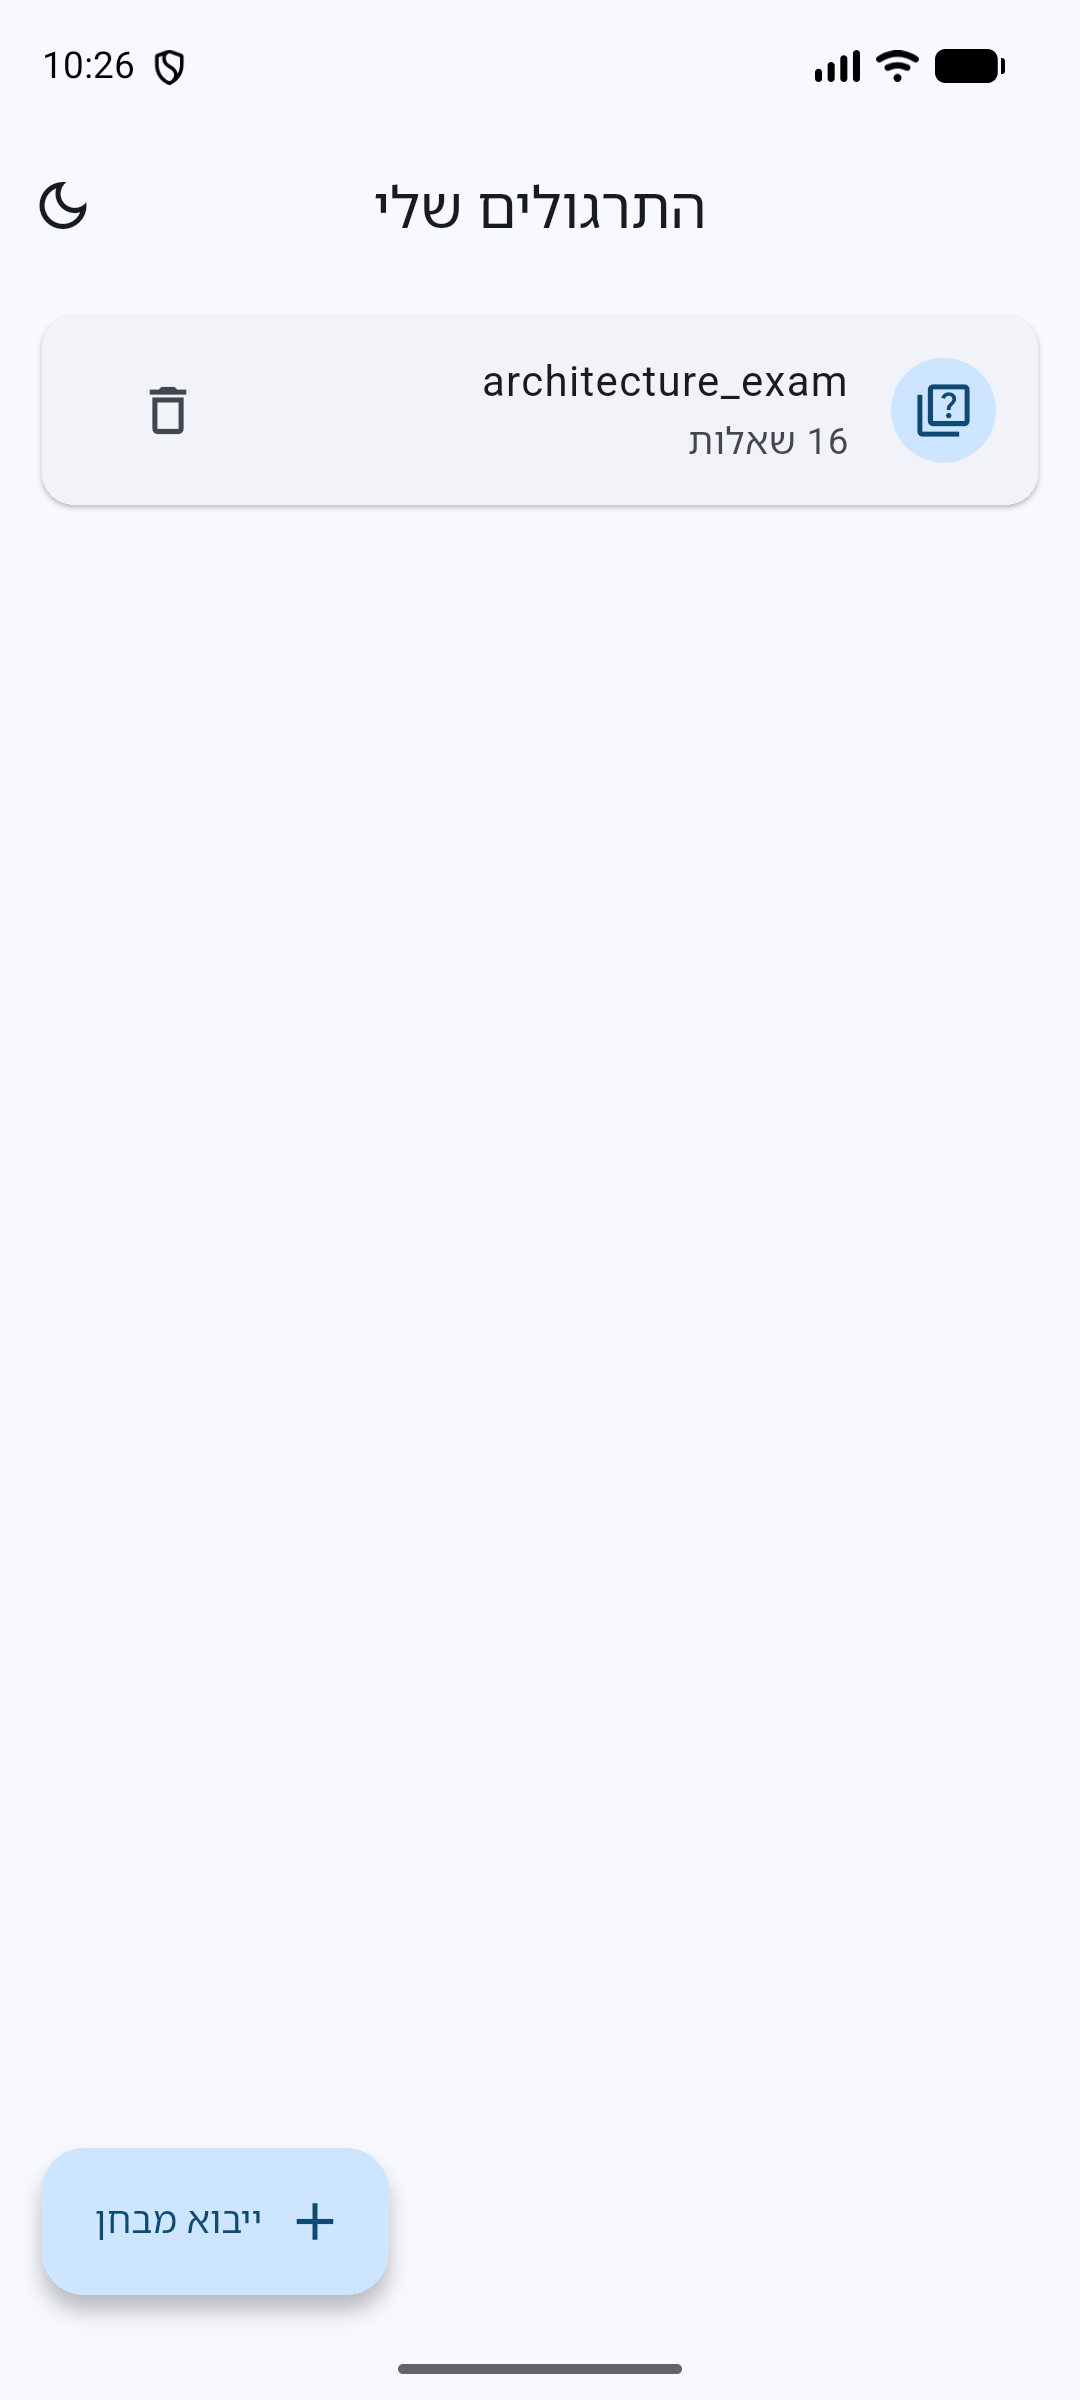
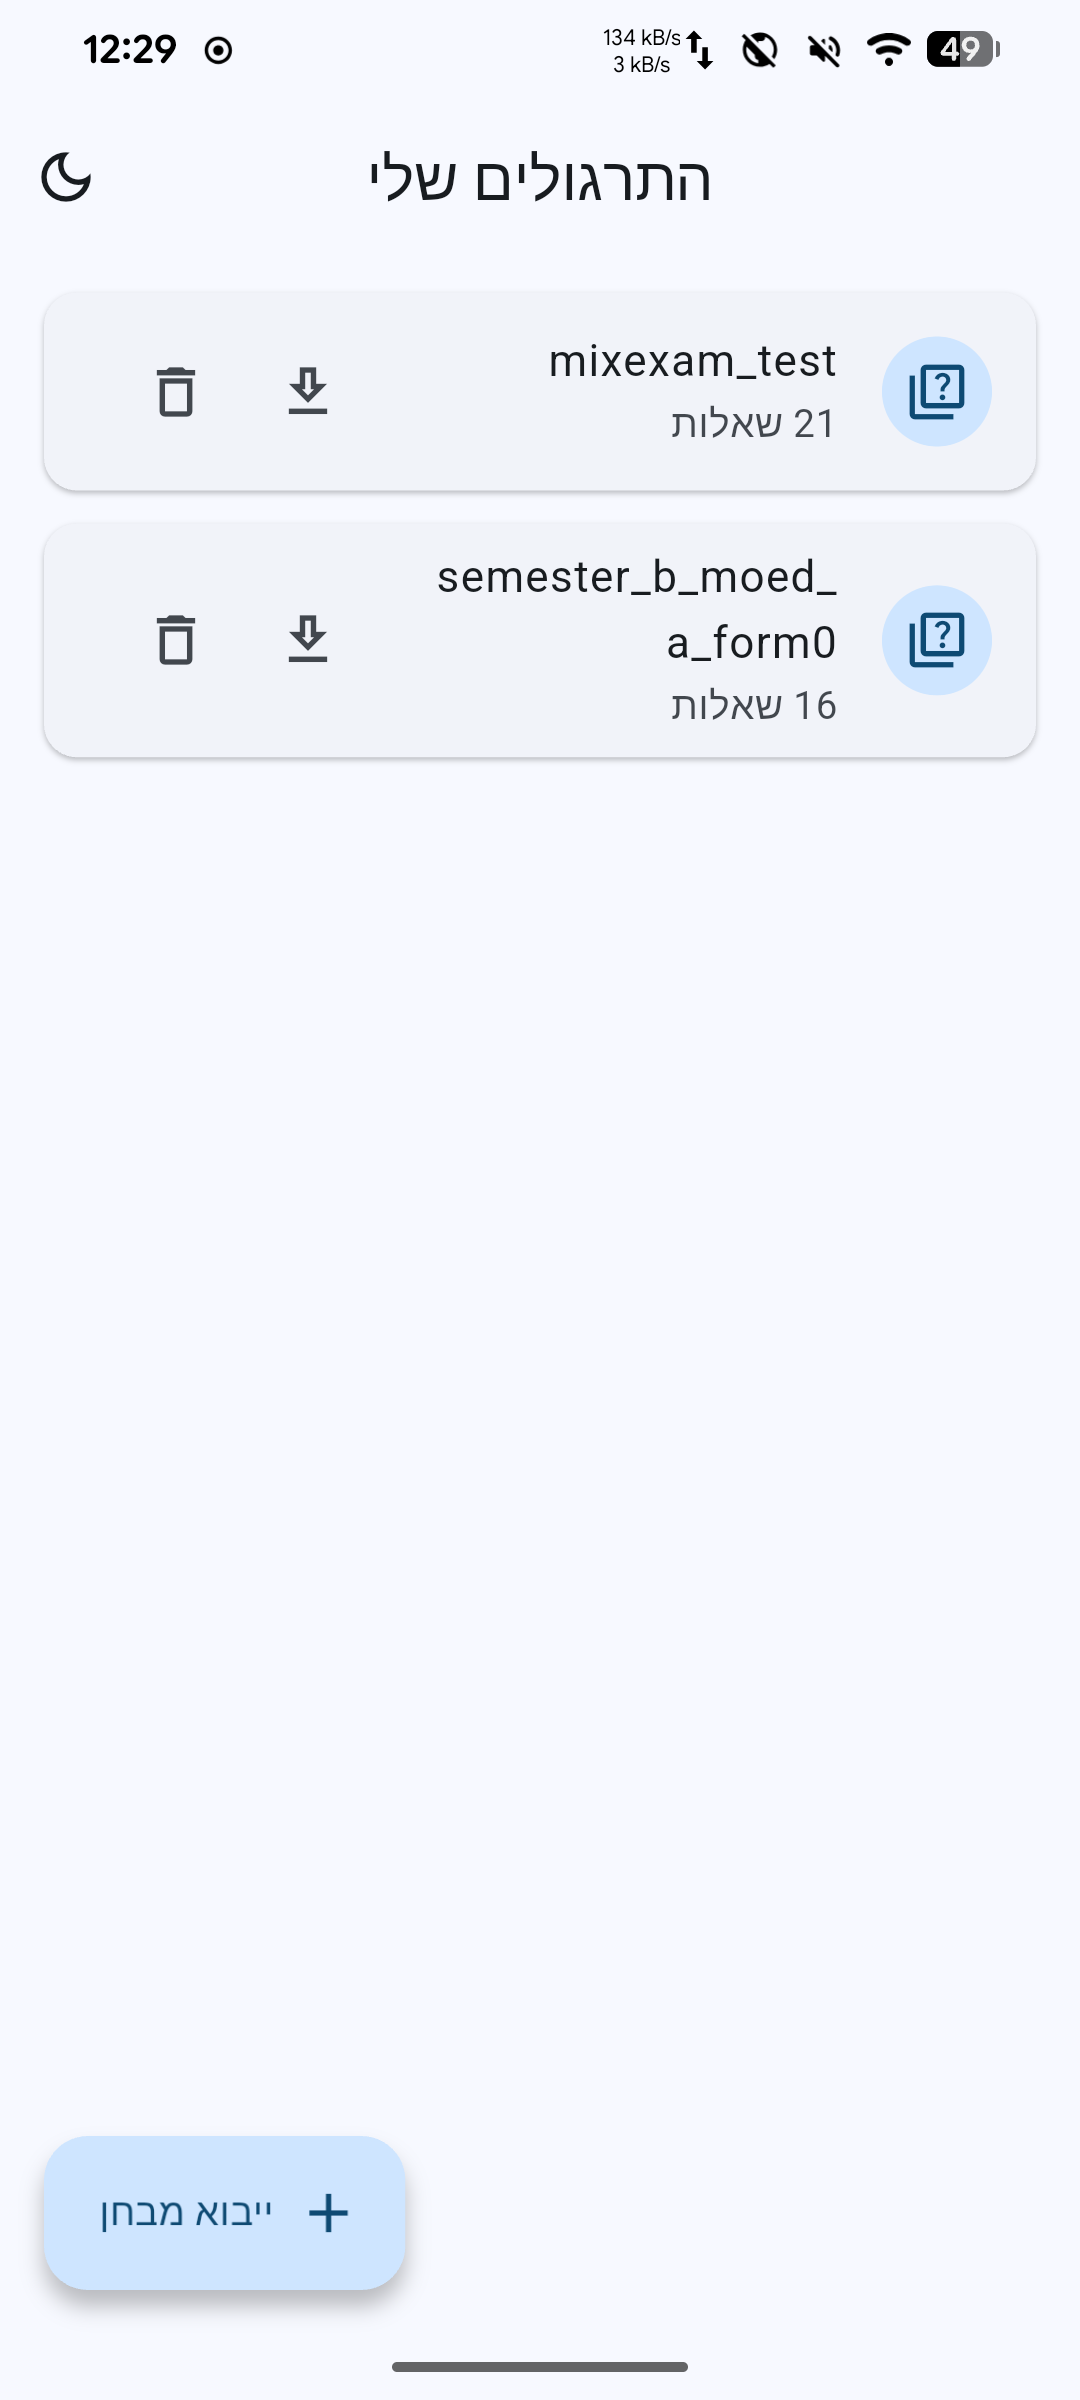
docs: refresh README screenshots for the current app
Recaptured all six shots on-device. The eye-reveal helper is gone, so
reveal.png is replaced by feedback.png (immediate right/wrong marking),
and the dark-mode shot now shows the fingertip bird trail. Prose updated
to match: immediate feedback, auto-advance, and the shuffled-PDF export.

diff --git a/README.md b/README.md
@@ -17,8 +17,11 @@ network calls, no PDFs leave your device.
   isolate via `compute()`, so the UI never freezes.
 - **Answer shuffling.** Extracted text answers are shuffled each session,
   and the originally-correct answer is never left in the first position.
-- **Reveal helper.** An "eye" button highlights the correct answer in green
-  for self-checking without failing you.
+- **Immediate feedback.** Picking an answer locks the question and marks it
+  at once — your pick in red if wrong, the correct one in green. A correct
+  answer auto-advances to the next question.
+- **Download the shuffled exam as a PDF.** The reordered exam is re-stamped
+  in the original layout, so you can print or practice on paper.
 - **Visual questions (diagrams / Karnaugh maps / circuits).** Questions the
   parser can't safely turn into shuffled text fall back to an image of the
   question body, cropped **above** the original answers so the Zero-Exam
@@ -33,9 +36,9 @@ network calls, no PDFs leave your device.
 
 | Home | Processing | Practice |
 |:---:|:---:|:---:|
-| ![Home screen with an imported exam](docs/screenshots/home.png) | ![On-device parse summary](docs/screenshots/processing.png) | ![A question with shuffled answers](docs/screenshots/practice.png) |
-| **Reveal correct answer** | **Results** | **Dark mode** |
-| ![Reveal helper highlighting the correct answer in green](docs/screenshots/reveal.png) | ![Score and mistake breakdown](docs/screenshots/results.png) | ![Home screen in dark mode](docs/screenshots/home-dark.png) |
+| ![Home screen listing imported exams](docs/screenshots/home.png) | ![On-device parse summary](docs/screenshots/processing.png) | ![A question with shuffled answers](docs/screenshots/practice.png) |
+| **Answer feedback** | **Results** | **Dark mode** |
+| ![A wrong pick in red with the correct answer in green](docs/screenshots/feedback.png) | ![Score ring, statistics and mistake breakdown](docs/screenshots/results.png) | ![Dark mode with the bird trail following a fingertip](docs/screenshots/home-dark.png) |
 
 ## Tech stack
 
@@ -110,10 +113,12 @@ flutter build apk --debug
 
 1. On the home screen, tap **ייבוא מבחן** (the + button) and pick a
    Zero-Exam PDF.
-2. Wait for the on-device parse to finish, then tap **התחל תרגול**.
-3. Swipe through questions, select answers, and use the eye button to
-   reveal the correct one. Tap **סיים תרגול והצג ציון** for your score and a
-   breakdown of mistakes (your answer in red, the correct one in green).
+2. Wait for the on-device parse to finish, then tap **התחל תרגול** — or
+   **הורדת מבחן מעורבב (PDF)** to save the shuffled exam for printing.
+3. Move through the questions with **השאלה הבאה** / **הקודמת** and pick an
+   answer; it is marked right away, and a correct one advances on its own.
+   Tap **סיים תרגול והצג ציון** for your score and a breakdown of mistakes
+   (your answer in red, the correct one in green).
 
 ## Tests
 
